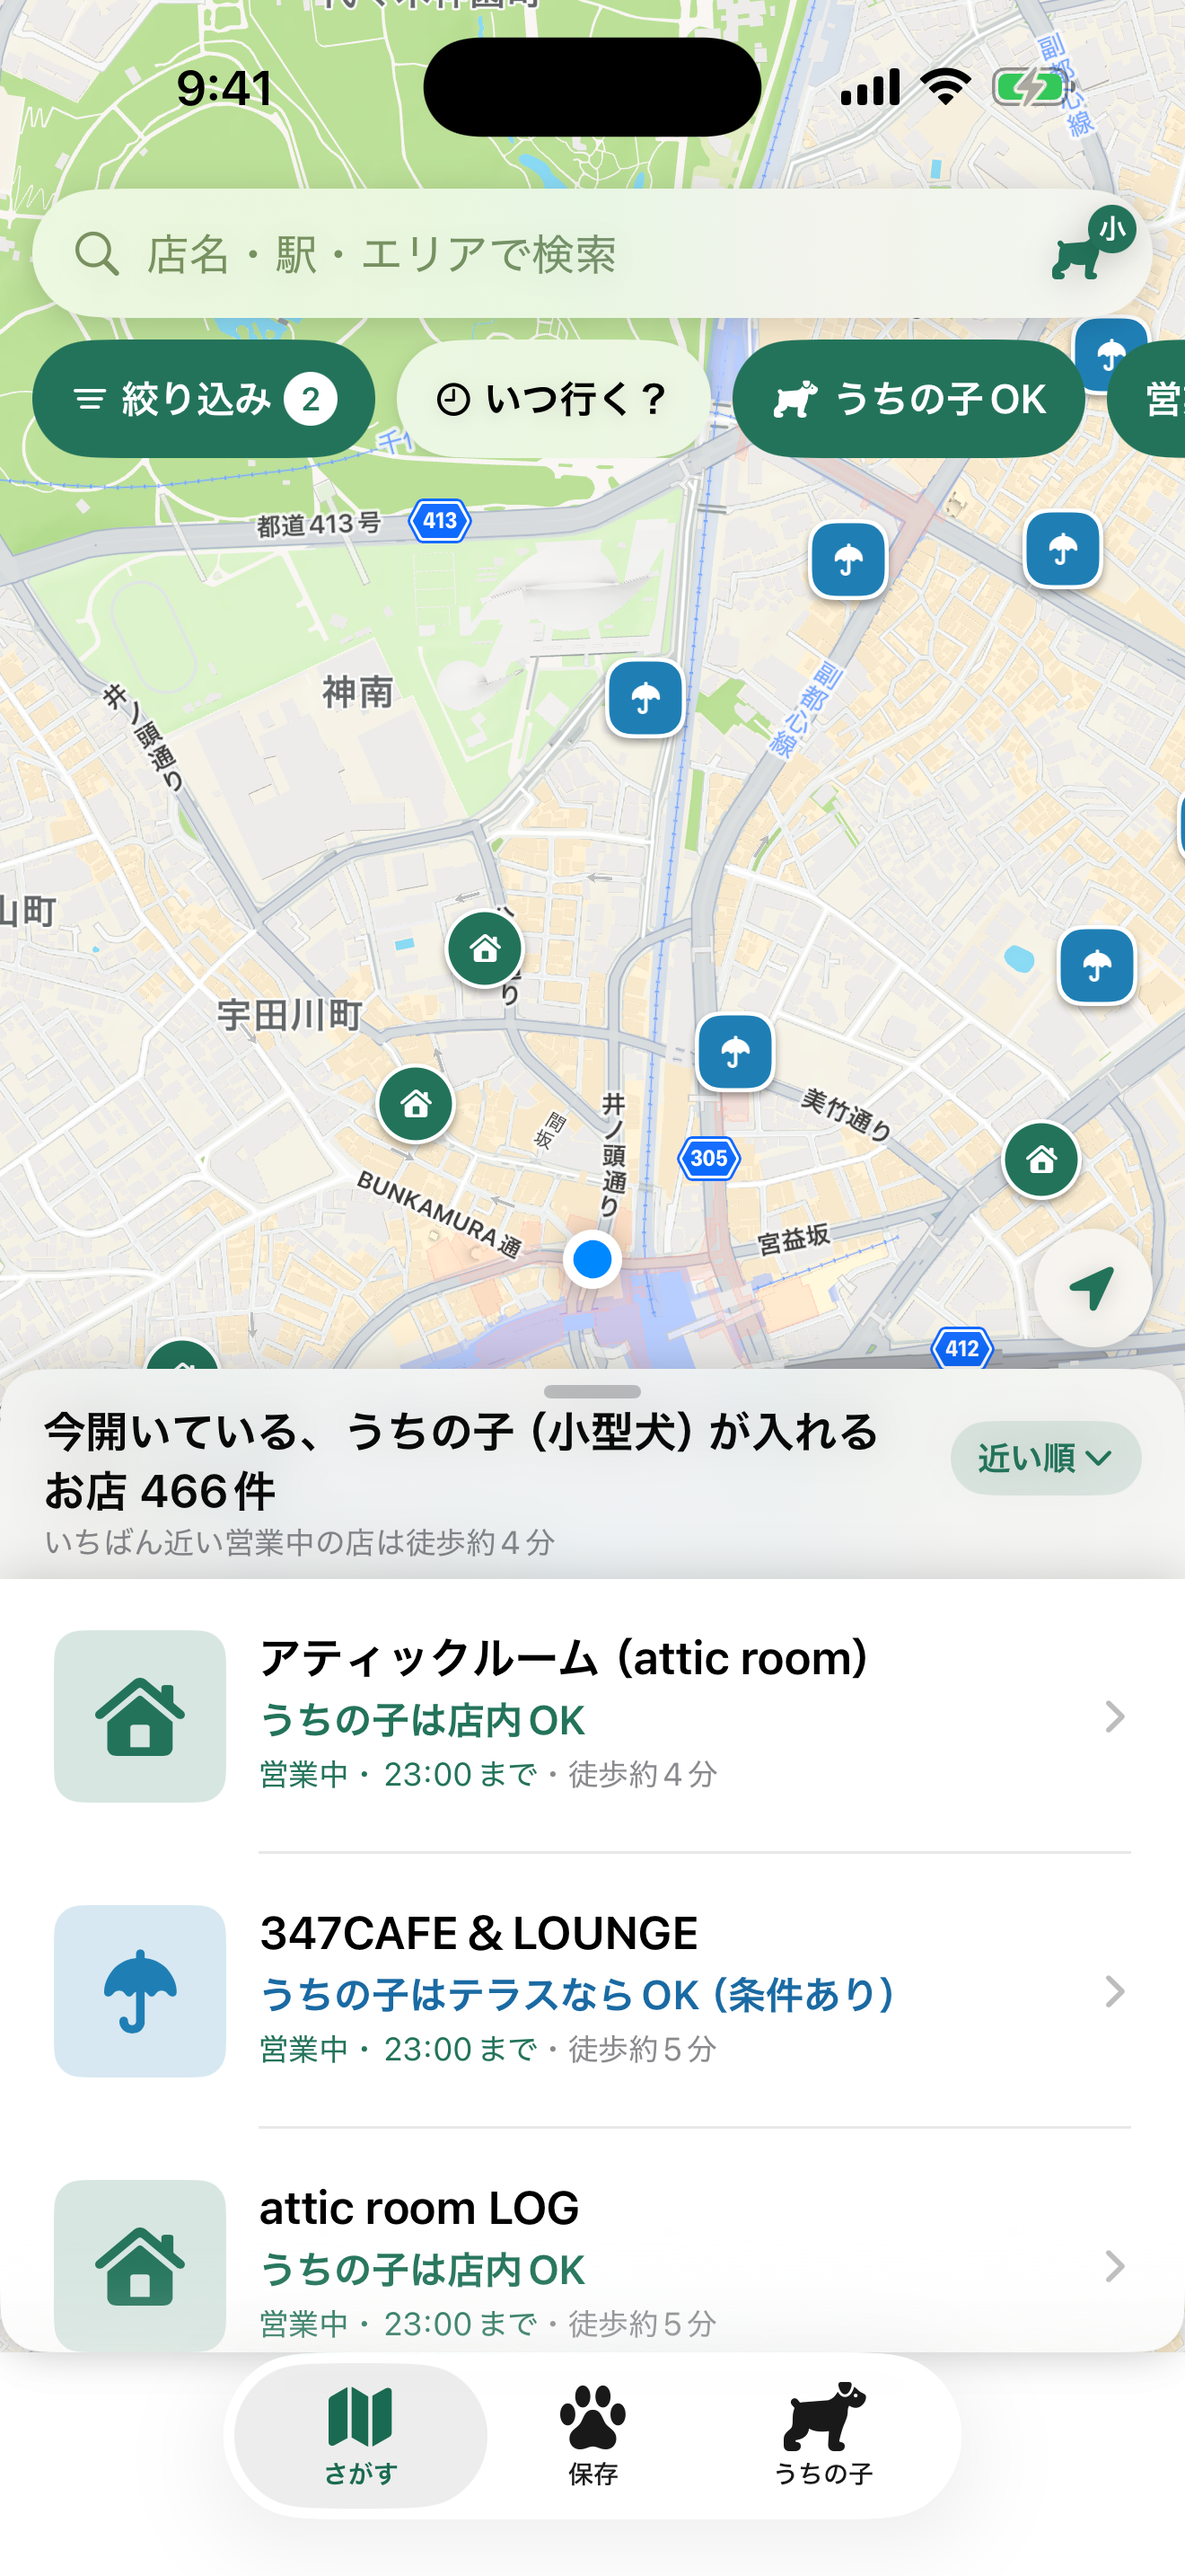
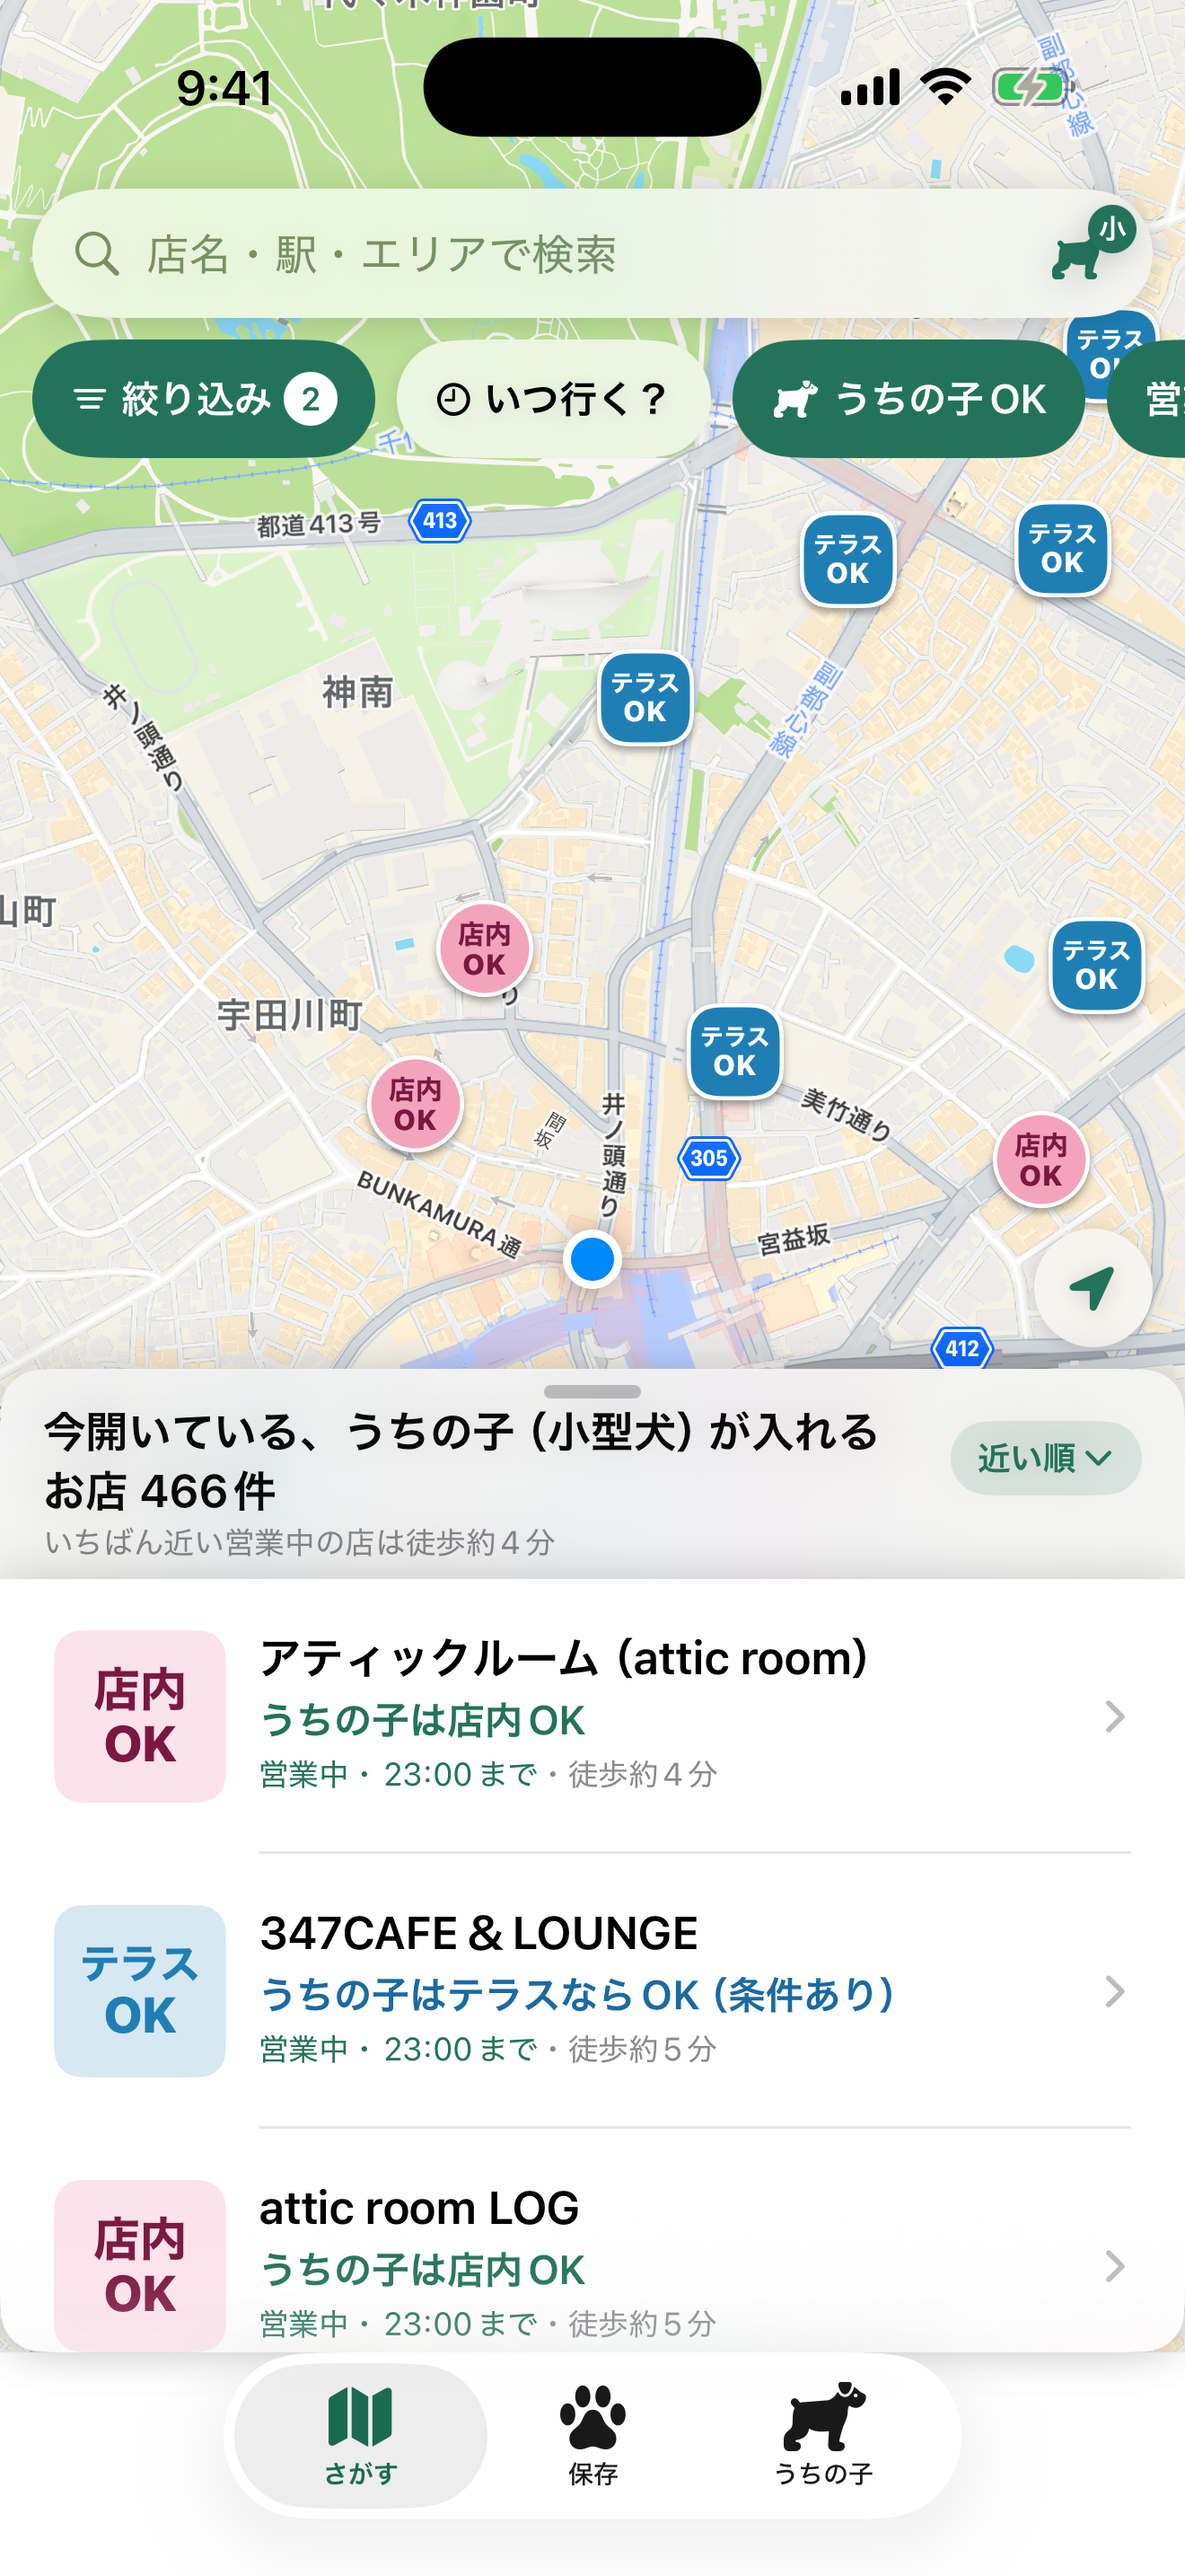
docs: 新しいピンでスクリーンショットを撮り直し、6.3インチ用の5枚を追加
Claude-Session: https://claude.ai/code/session_019zkcAEuFg4zVZq5VyKun4C

diff --git a/HANDOFF.md b/HANDOFF.md
@@ -24,7 +24,7 @@
 - ✅ **画面の再設計（段階1〜4・2026-10-24〜26・PR #31/#33/#34/#35＋段階4）**: 「うちの子と、今、入れる？」に3タップで答える構成に作り直した（再設計案は利用者承認済み）。下のタブ3つ（さがす／保存／うちの子）・検索バー＋条件チップ（いつ行く？・うちの子OK・営業中・店内OK・テラス・大型犬OK・犬メニュー）・3段の一覧シート（見出しだけ／半分／ほぼ全画面）・ピンのカード・詳細の答えのカード（根拠の1行→根拠のシート）・「いつ行く？」（日時で絞る）・「行きたい／行った」（旧お気に入り）・「うちの子」（犬の大きさ・過ごし方の設定と入れるかの判定）。段階4（提出前の仕上げ）で積み残しの解消・未使用コードの削除・文字列カタログの同期・ライト/ダーク×最大文字サイズの通し確認・提出資料の更新を行った。画面構成と主要ファイルは §2.5。
 - ✅ データ基盤（サーバーレス構成B）: `data/master/*.csv` → `tools/export_cafes.py`（検証・矛盾解決・差分CHANGELOG）→ `data/cafes.json`
 - ✅ **データ配信 本稼働**: GitHub Pages で `cafes.json` を配信。アプリが起動時に取得（アプリ審査なしで更新反映）
-- ✅ **体験見直し 第1弾（2026-11-13）**: 一覧シートの見出し2行目を答えに（「いちばん近い営業中の店は徒歩約◯分」）、見出しだけの段で先頭の1店が読める高さに、一覧の行を3行に（店名／答え1行 `CafePresentation.answerLine`／営業＋距離）、「あと◯分で閉店」、写真のない店は絵柄のタイル、ピンの絵柄を席の種類で変更（店内OK＝家・テラス＝傘・条件を確認＝？・未確認＝肉球。テラスは青）、地図を寄せると近い3店に店名。店の詳細は、写真がなければ小さな地図の帯（`CafeDetailMapBand`）、分かっている要点だけのタイル、「まだ分かっていないこと」（`CafeDetailUnknowns`）、下のタブを隠して経路・電話・保存の状態ボタン（`Core/SaveStateButton.swift`。行きたい／行ったを1つに統合）を画面下に固定、共有は右上。提案の全体と第2弾以降は https://claude.ai/artifact/APb92e3YgjMThgy1Gt98tX 。
+- ✅ **体験見直し 第1弾（2026-11-13）**: 一覧シートの見出し2行目を答えに（「いちばん近い営業中の店は徒歩約◯分」）、見出しだけの段で先頭の1店が読める高さに、一覧の行を3行に（店名／答え1行 `CafePresentation.answerLine`／営業＋距離）、「あと◯分で閉店」、写真のない店は絵柄のタイル、ピンの中身を席の種類で変更（店内OK＝薄いピンクの丸に「店内OK」の文字・テラス＝青い角丸四角に「テラスOK」の文字・条件を確認＝？・未確認＝肉球。当初の家・傘の絵柄は「家」「雨」に見えたため同日に文字へ変更。テラスは青）、地図を寄せると近い3店に店名。店の詳細は、写真がなければ小さな地図の帯（`CafeDetailMapBand`）、分かっている要点だけのタイル、「まだ分かっていないこと」（`CafeDetailUnknowns`）、下のタブを隠して経路・電話・保存の状態ボタン（`Core/SaveStateButton.swift`。行きたい／行ったを1つに統合）を画面下に固定、共有は右上。提案の全体と第2弾以降は https://claude.ai/artifact/APb92e3YgjMThgy1Gt98tX 。
 - ✅ **第1弾の仕上げ（2026-11-13・PR #62）**: 詳細の「うちの子」の1行は入れない席の理由を先に言う／大型犬で `large_dogs=false` の店は上限の明記がない可の席も「大型犬不可」と判定（`DogFit.NoReason.largeDogsNotAllowed`）／「わんちゃん向け情報」の大型犬の行は席ごとの上限があれば席ごとに言う（`largeDogsRow`）／固定バーは狭い幅で保存ボタンの日付を落とす／詳細の地図の帯から他の施設の表示を消す。ストア用の画面写真5枚は `docs/appstore/screenshots/` に撮り直し済み（撮影の記録は `docs/appstore/screenshots.md`）。**v1.0 の提出で残っているのは本人の作業だけ**（`docs/appstore/submission-checklist.md` 冒頭の「残っている作業」）。
 - ✅ テスト: 2026-11-13（体験見直し 第1弾＋仕上げ）に XCTest 703件 全緑（Xcode 26、iPhone 17 シミュレータ）、ビルド警告の増加なし。最小 iOS は 17。`.xcodeproj` は `DokoWanCafe/` 配下。
 - ✅ 公開物: リポジトリ(public)・README・プライバシーポリシー

diff --git a/docs/appstore/screenshots.md b/docs/appstore/screenshots.md
@@ -1,7 +1,7 @@
 # App Store スクリーンショット撮影ガイド（再設計後・6.9 インチ）
 
 > 2026-10-26 新規（再設計 段階4）。提出手順の全体は `submission-checklist.md` §6。文面は `store-listing.md`。
-> 2026-11-13: ピンの絵柄（家・傘・？）とテラスの色（青）、一覧の行（3行・答えの1行）に合わせて撮り直し済み。画像は `docs/appstore/screenshots/` にあり、そのまま App Store Connect にドラッグできる（下の「撮影の記録」）。
+> 2026-11-13: ピンの表記（店内OK＝薄いピンクの丸に「店内OK」、テラス＝青い角丸四角に「テラスOK」）に合わせて撮り直し済み。画像は `docs/appstore/screenshots/`（6.9インチ・1320 × 2868）と `docs/appstore/screenshots/6.3/`（6.3インチ・1206 × 2622）にあり、そのまま App Store Connect にドラッグできる（下の「撮影の記録」）。
 
 ## 仕様
 
@@ -53,16 +53,17 @@ xcrun simctl status_bar booted clear
 
 ## 提出前チェック
 
-- [ ] すべて 1320 × 2868 px・ライト・標準の文字サイズ・9:41 のステータスバー
+- [ ] 6.9インチは 1320 × 2868 px、6.3インチは 1206 × 2622 px・ライト・標準の文字サイズ・9:41 のステータスバー
 - [ ] 「サンプルデータ表示中」バナーなし・架空の店なし
 - [ ] 「うちの子OK」「いつ行く？」「答えのカード」「根拠」が各 1 枚以上に写っている
 - [ ] キャプションは誇張なし（推測で OK と言わない原則と矛盾しない）
 
 ## 撮影の記録（2026-11-13）
 
-- 対象のコミット: main = `f33dd54`（PR #62 反映後。詳細の先頭の小さな地図から他の施設の名前・アイコンが消えた版）。`03_dog.png`・`04_evidence.png`・README の `detail.png` はこの版で撮り直し、地図の帯に他の施設の名前・アイコンが写っていないことを確認済み。`01`・`02`・`05`・README の `home.png`・`onboarding.png` はこの版で撮り直して見比べ、表示が変わっていなかった（現在地の青い点の脈動以外の差なし）ため、そのまま使っている。
+- 対象のコミット: `8bf0988`（ピンを文字だけにし、店内OKを薄いピンクにした版）。全7枚（ストア用5枚＋README用2枚）をこの版で撮り直した。
+- 6.3インチ用: App Store Connect の「Dynamic Island搭載iPhone（中型ディスプレイ）」の枠（1206 × 2622）に入れる5枚を、iPhone 17 シミュレータで同じ手順・同じ場面で撮り、`docs/appstore/screenshots/6.3/` に置いた。
 
-- 機種: iPhone 17 Pro Max シミュレータ（1320 × 2868 px）。ステータスバー 9:41・満充電・Wi-Fi/電波満・ライト・文字サイズ large・位置は渋谷（35.6595, 139.7005）・位置情報は許可済み。うちの子は「小型犬」に設定。本番の `cafes.json`（859件・サンプルバナーなし）。
+- 機種: iPhone 17 Pro Max シミュレータ（1320 × 2868 px）と iPhone 17 シミュレータ（1206 × 2622 px）。ステータスバー 9:41・満充電・Wi-Fi/電波満・ライト・文字サイズ large・位置は渋谷（35.6595, 139.7005）・位置情報は許可済み。うちの子は「小型犬」に設定。本番の `cafes.json`（859件・サンプルバナーなし）。
 - 営業の基準時刻: 実時刻（朝）では営業中の店が並ばないため、撮影用の作業コピーで**「今」を 2026-11-13（金）13:00 に固定**して撮影（アプリが時刻を読む入口だけ差し替え。表示を描くコードは本番と同じ）。ステータスバーは 9:41 のまま。場面2は固定した「今」から見た翌日の土曜 12:00。
 - 写真: 作業コピーで**写真プレビューの取得を無効化**（初回起動で写真がまだ無い状態と同じ。一覧・カードは絵柄のタイル）。実在店の外観写真・Instagram 埋め込みは写っていない。
 - 画像の加工・合成・キャプションの焼き込みなし（素の撮影）。

diff --git a/docs/appstore/submission-checklist.md b/docs/appstore/submission-checklist.md
@@ -4,11 +4,11 @@
 
 ## 残っている作業（2026-11-13 時点）
 
-アプリ側の準備は終わっている（体験見直し 第1弾まで main に反映・XCTest 703件 成功・Release 構成の実機向けビルド成功・ストア用の画面写真5枚を `docs/appstore/screenshots/` に用意・公開ページ3つが開ける・`cafes.json` の検証 OK）。残りは本人の作業だけ:
+アプリ側の準備は終わっている（体験見直し 第1弾まで main に反映・XCTest 704件 成功・Release 構成の実機向けビルド成功・ストア用の画面写真5枚を `docs/appstore/screenshots/` に用意・公開ページ（紹介・サポート・プライバシーポリシー）が開ける・`cafes.json` の検証 OK）。残りは本人の作業だけ:
 
 1. **チーム ID を決める**（§1・§2）。この Mac の署名用証明書のチームは `5R2C45VRV4`、プロジェクトの設定は `MY8WU4892D` で食い違っている。提出に使う Apple Developer Program のチーム ID を確かめ、違っていれば `DEVELOPMENT_TEAM` を直す（Claude に頼める）。
 2. App Store Connect にアプリを登録する（§3）。
-3. 文面と画面写真を入力する（§7。画面写真は `docs/appstore/screenshots/01_now.png`〜`05_saved.png` をそのままドラッグ）。
+3. 文面と画面写真を入力する（§7。App Store Connect が最初に見せる「Dynamic Island搭載iPhone（中型ディスプレイ）」の枠には `docs/appstore/screenshots/6.3/` の5枚（1206 × 2622）、6.9インチの枠（メディアマネージャー）には `docs/appstore/screenshots/01_now.png`〜`05_saved.png`（1320 × 2868）をドラッグ。名前は「DokoWanCafe」から「Puppy With Cafe」に書き換える。マーケティングURL は https://changch223.github.io/puppy-with-cafe/）。
 4. App Privacy と年齢区分に答える（§8）。
 5. Xcode で Archive してアップロードする（§9）。
 6. TestFlight で実機確認する（§10）。
